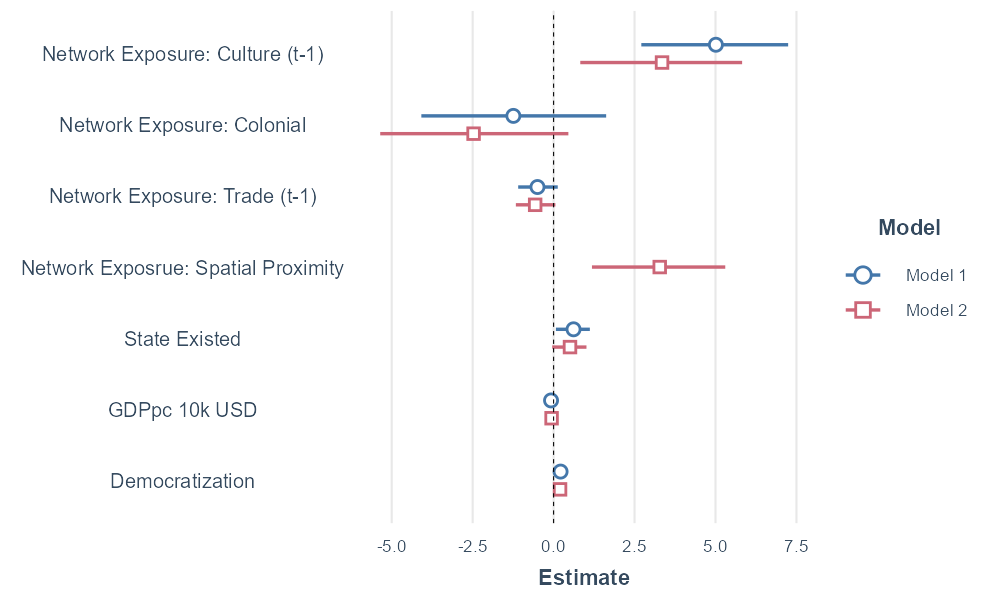
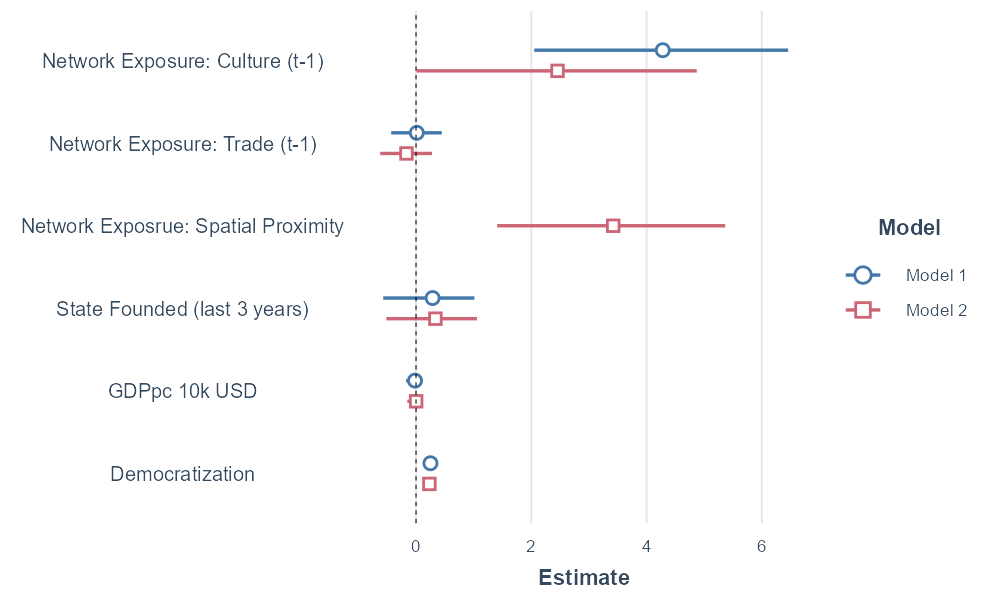
finalized models for both outcomes

diff --git a/results/Tbl1_OR.htm b/results/Tbl1_OR.htm
@@ -4,44 +4,44 @@
 <tr><td></td><td colspan="2" style="border-bottom: 1px solid black"></td></tr>
 <tr><td style="text-align:left"></td><td colspan="2">First Work-Injury Law</td></tr>
 <tr><td style="text-align:left"></td><td>(1)</td><td>(2)</td></tr>
-<tr><td colspan="3" style="border-bottom: 1px solid black"></td></tr><tr><td style="text-align:left">(1880-1904)</td><td>0.004</td><td>0.004</td></tr>
-<tr><td style="text-align:left"></td><td>t = -22.275<sup>***</sup></td><td>t = -22.375<sup>***</sup></td></tr>
+<tr><td colspan="3" style="border-bottom: 1px solid black"></td></tr><tr><td style="text-align:left">(1880-1902)</td><td>0.004</td><td>0.004</td></tr>
+<tr><td style="text-align:left"></td><td>t = -22.656<sup>***</sup></td><td>t = -22.733<sup>***</sup></td></tr>
 <tr><td style="text-align:left"></td><td></td><td></td></tr>
-<tr><td style="text-align:left">(1905-1929)</td><td>0.007</td><td>0.007</td></tr>
-<tr><td style="text-align:left"></td><td>t = -15.657<sup>***</sup></td><td>t = -15.648<sup>***</sup></td></tr>
+<tr><td style="text-align:left">(1903-1928)</td><td>0.006</td><td>0.006</td></tr>
+<tr><td style="text-align:left"></td><td>t = -15.595<sup>***</sup></td><td>t = -15.644<sup>***</sup></td></tr>
 <tr><td style="text-align:left"></td><td></td><td></td></tr>
-<tr><td style="text-align:left">(1930-1954)</td><td>0.003</td><td>0.003</td></tr>
-<tr><td style="text-align:left"></td><td>t = -8.637<sup>***</sup></td><td>t = -8.679<sup>***</sup></td></tr>
+<tr><td style="text-align:left">(1929-1954)</td><td>0.002</td><td>0.002</td></tr>
+<tr><td style="text-align:left"></td><td>t = -9.146<sup>***</sup></td><td>t = -9.207<sup>***</sup></td></tr>
 <tr><td style="text-align:left"></td><td></td><td></td></tr>
-<tr><td style="text-align:left">(1955-1979)</td><td>0.002</td><td>0.002</td></tr>
-<tr><td style="text-align:left"></td><td>t = -7.043<sup>***</sup></td><td>t = -7.142<sup>***</sup></td></tr>
+<tr><td style="text-align:left">(1955-1979)</td><td>0.002</td><td>0.001</td></tr>
+<tr><td style="text-align:left"></td><td>t = -7.746<sup>***</sup></td><td>t = -7.910<sup>***</sup></td></tr>
 <tr><td style="text-align:left"></td><td></td><td></td></tr>
-<tr><td style="text-align:left">(1980-2010)</td><td>0.002</td><td>0.002</td></tr>
-<tr><td style="text-align:left"></td><td>t = -6.157<sup>***</sup></td><td>t = -6.289<sup>***</sup></td></tr>
+<tr><td style="text-align:left">(1980-2010)</td><td>0.002</td><td>0.001</td></tr>
+<tr><td style="text-align:left"></td><td>t = -6.730<sup>***</sup></td><td>t = -6.939<sup>***</sup></td></tr>
 <tr><td style="text-align:left"></td><td></td><td></td></tr>
-<tr><td style="text-align:left">State Existed</td><td>1.851</td><td>1.659</td></tr>
-<tr><td style="text-align:left"></td><td>t = 2.311<sup>**</sup></td><td>t = 1.883<sup>*</sup></td></tr>
+<tr><td style="text-align:left">State Founded (last 3 years)</td><td>1.334</td><td>1.400</td></tr>
+<tr><td style="text-align:left"></td><td>t = 0.721</td><td>t = 0.849</td></tr>
 <tr><td style="text-align:left"></td><td></td><td></td></tr>
-<tr><td style="text-align:left">Network Exposure: Culture (t-1)</td><td>150.217</td><td>28.468</td></tr>
-<tr><td style="text-align:left"></td><td>t = 4.338<sup>***</sup></td><td>t = 2.628<sup>***</sup></td></tr>
+<tr><td style="text-align:left">Network Exposure: Culture (t-1)</td><td>72.328</td><td>11.649</td></tr>
+<tr><td style="text-align:left"></td><td>t = 3.813<sup>***</sup></td><td>t = 1.980<sup>**</sup></td></tr>
 <tr><td style="text-align:left"></td><td></td><td></td></tr>
-<tr><td style="text-align:left">Network Exposure: Colonial</td><td>0.288</td><td>0.084</td></tr>
-<tr><td style="text-align:left"></td><td>t = -0.855</td><td>t = -1.669<sup>*</sup></td></tr>
+<tr><td style="text-align:left">Network Exposure: Colonial</td><td>1.146</td><td>0.360</td></tr>
+<tr><td style="text-align:left"></td><td>t = 0.097</td><td>t = -0.719</td></tr>
 <tr><td style="text-align:left"></td><td></td><td></td></tr>
-<tr><td style="text-align:left">Network Exposure: Trade (t-1)</td><td>0.608</td><td>0.566</td></tr>
-<tr><td style="text-align:left"></td><td>t = -1.604</td><td>t = -1.836<sup>*</sup></td></tr>
+<tr><td style="text-align:left">Network Exposure: Trade (t-1)</td><td>1.014</td><td>0.847</td></tr>
+<tr><td style="text-align:left"></td><td>t = 0.063</td><td>t = -0.723</td></tr>
 <tr><td style="text-align:left"></td><td></td><td></td></tr>
-<tr><td style="text-align:left">Network Exposrue: Spatial Proximity</td><td></td><td>26.520</td></tr>
-<tr><td style="text-align:left"></td><td></td><td>t = 3.121<sup>***</sup></td></tr>
+<tr><td style="text-align:left">Network Exposrue: Spatial Proximity</td><td></td><td>30.610</td></tr>
+<tr><td style="text-align:left"></td><td></td><td>t = 3.390<sup>***</sup></td></tr>
 <tr><td style="text-align:left"></td><td></td><td></td></tr>
-<tr><td style="text-align:left">GDPpc 10k USD</td><td>0.924</td><td>0.939</td></tr>
-<tr><td style="text-align:left"></td><td>t = -1.461</td><td>t = -1.141</td></tr>
+<tr><td style="text-align:left">GDPpc 10k USD</td><td>0.983</td><td>1.002</td></tr>
+<tr><td style="text-align:left"></td><td>t = -0.284</td><td>t = 0.039</td></tr>
 <tr><td style="text-align:left"></td><td></td><td></td></tr>
-<tr><td style="text-align:left">Democratization</td><td>1.240</td><td>1.220</td></tr>
-<tr><td style="text-align:left"></td><td>t = 3.877<sup>***</sup></td><td>t = 3.544<sup>***</sup></td></tr>
+<tr><td style="text-align:left">Democratization</td><td>1.284</td><td>1.261</td></tr>
+<tr><td style="text-align:left"></td><td>t = 4.595<sup>***</sup></td><td>t = 4.216<sup>***</sup></td></tr>
 <tr><td style="text-align:left"></td><td></td><td></td></tr>
-<tr><td colspan="3" style="border-bottom: 1px solid black"></td></tr><tr><td style="text-align:left">Observations</td><td>7,828</td><td>7,828</td></tr>
-<tr><td style="text-align:left">Log Likelihood</td><td>-648.509</td><td>-643.885</td></tr>
-<tr><td style="text-align:left">Akaike Inf. Crit.</td><td>1,319.018</td><td>1,311.770</td></tr>
+<tr><td colspan="3" style="border-bottom: 1px solid black"></td></tr><tr><td style="text-align:left">Observations</td><td>7,870</td><td>7,870</td></tr>
+<tr><td style="text-align:left">Log Likelihood</td><td>-656.905</td><td>-651.492</td></tr>
+<tr><td style="text-align:left">Akaike Inf. Crit.</td><td>1,335.810</td><td>1,326.984</td></tr>
 <tr><td colspan="3" style="border-bottom: 1px solid black"></td></tr><tr><td style="text-align:left"><em>Note:</em></td><td colspan="2" style="text-align:right"><sup>*</sup>p<0.1; <sup>**</sup>p<0.05; <sup>***</sup>p<0.01</td></tr>
 </table>

diff --git a/results/Tbl1.htm b/results/Tbl1.htm
@@ -4,44 +4,44 @@
 <tr><td></td><td colspan="2" style="border-bottom: 1px solid black"></td></tr>
 <tr><td style="text-align:left"></td><td colspan="2">First Work-Injury Law</td></tr>
 <tr><td style="text-align:left"></td><td>(1)</td><td>(2)</td></tr>
-<tr><td colspan="3" style="border-bottom: 1px solid black"></td></tr><tr><td style="text-align:left">(1880-1904)</td><td>-5.626<sup>***</sup></td><td>-5.631<sup>***</sup></td></tr>
-<tr><td style="text-align:left"></td><td>(0.253)</td><td>(0.252)</td></tr>
+<tr><td colspan="3" style="border-bottom: 1px solid black"></td></tr><tr><td style="text-align:left">(1880-1902)</td><td>-5.573<sup>***</sup></td><td>-5.601<sup>***</sup></td></tr>
+<tr><td style="text-align:left"></td><td>(0.246)</td><td>(0.246)</td></tr>
 <tr><td style="text-align:left"></td><td></td><td></td></tr>
-<tr><td style="text-align:left">(1905-1929)</td><td>-5.025<sup>***</sup></td><td>-5.028<sup>***</sup></td></tr>
-<tr><td style="text-align:left"></td><td>(0.321)</td><td>(0.321)</td></tr>
+<tr><td style="text-align:left">(1903-1928)</td><td>-5.115<sup>***</sup></td><td>-5.121<sup>***</sup></td></tr>
+<tr><td style="text-align:left"></td><td>(0.328)</td><td>(0.327)</td></tr>
 <tr><td style="text-align:left"></td><td></td><td></td></tr>
-<tr><td style="text-align:left">(1930-1954)</td><td>-5.733<sup>***</sup></td><td>-5.802<sup>***</sup></td></tr>
-<tr><td style="text-align:left"></td><td>(0.664)</td><td>(0.669)</td></tr>
+<tr><td style="text-align:left">(1929-1954)</td><td>-6.041<sup>***</sup></td><td>-6.140<sup>***</sup></td></tr>
+<tr><td style="text-align:left"></td><td>(0.660)</td><td>(0.667)</td></tr>
 <tr><td style="text-align:left"></td><td></td><td></td></tr>
-<tr><td style="text-align:left">(1955-1979)</td><td>-6.052<sup>***</sup></td><td>-6.161<sup>***</sup></td></tr>
-<tr><td style="text-align:left"></td><td>(0.859)</td><td>(0.863)</td></tr>
+<tr><td style="text-align:left">(1955-1979)</td><td>-6.478<sup>***</sup></td><td>-6.652<sup>***</sup></td></tr>
+<tr><td style="text-align:left"></td><td>(0.836)</td><td>(0.841)</td></tr>
 <tr><td style="text-align:left"></td><td></td><td></td></tr>
-<tr><td style="text-align:left">(1980-2010)</td><td>-6.103<sup>***</sup></td><td>-6.263<sup>***</sup></td></tr>
-<tr><td style="text-align:left"></td><td>(0.991)</td><td>(0.996)</td></tr>
+<tr><td style="text-align:left">(1980-2010)</td><td>-6.473<sup>***</sup></td><td>-6.715<sup>***</sup></td></tr>
+<tr><td style="text-align:left"></td><td>(0.962)</td><td>(0.968)</td></tr>
 <tr><td style="text-align:left"></td><td></td><td></td></tr>
-<tr><td style="text-align:left">State Existed</td><td>0.615<sup>**</sup></td><td>0.506<sup>*</sup></td></tr>
-<tr><td style="text-align:left"></td><td>(0.266)</td><td>(0.269)</td></tr>
+<tr><td style="text-align:left">State Founded (last 3 years)</td><td>0.288</td><td>0.336</td></tr>
+<tr><td style="text-align:left"></td><td>(0.399)</td><td>(0.397)</td></tr>
 <tr><td style="text-align:left"></td><td></td><td></td></tr>
-<tr><td style="text-align:left">Network Exposure: Culture (t-1)</td><td>5.012<sup>***</sup></td><td>3.349<sup>***</sup></td></tr>
-<tr><td style="text-align:left"></td><td>(1.155)</td><td>(1.274)</td></tr>
+<tr><td style="text-align:left">Network Exposure: Culture (t-1)</td><td>4.281<sup>***</sup></td><td>2.455<sup>**</sup></td></tr>
+<tr><td style="text-align:left"></td><td>(1.123)</td><td>(1.240)</td></tr>
 <tr><td style="text-align:left"></td><td></td><td></td></tr>
-<tr><td style="text-align:left">Network Exposure: Colonial</td><td>-1.243</td><td>-2.472<sup>*</sup></td></tr>
-<tr><td style="text-align:left"></td><td>(1.454)</td><td>(1.481)</td></tr>
+<tr><td style="text-align:left">Network Exposure: Colonial</td><td>0.136</td><td>-1.022</td></tr>
+<tr><td style="text-align:left"></td><td>(1.406)</td><td>(1.422)</td></tr>
 <tr><td style="text-align:left"></td><td></td><td></td></tr>
-<tr><td style="text-align:left">Network Exposure: Trade (t-1)</td><td>-0.498</td><td>-0.570<sup>*</sup></td></tr>
-<tr><td style="text-align:left"></td><td>(0.310)</td><td>(0.310)</td></tr>
+<tr><td style="text-align:left">Network Exposure: Trade (t-1)</td><td>0.014</td><td>-0.166</td></tr>
+<tr><td style="text-align:left"></td><td>(0.223)</td><td>(0.229)</td></tr>
 <tr><td style="text-align:left"></td><td></td><td></td></tr>
-<tr><td style="text-align:left">Network Exposrue: Spatial Proximity</td><td></td><td>3.278<sup>***</sup></td></tr>
-<tr><td style="text-align:left"></td><td></td><td>(1.050)</td></tr>
+<tr><td style="text-align:left">Network Exposrue: Spatial Proximity</td><td></td><td>3.421<sup>***</sup></td></tr>
+<tr><td style="text-align:left"></td><td></td><td>(1.009)</td></tr>
 <tr><td style="text-align:left"></td><td></td><td></td></tr>
-<tr><td style="text-align:left">GDPpc 10k USD</td><td>-0.079</td><td>-0.062</td></tr>
+<tr><td style="text-align:left">GDPpc 10k USD</td><td>-0.017</td><td>0.002</td></tr>
+<tr><td style="text-align:left"></td><td>(0.061)</td><td>(0.061)</td></tr>
+<tr><td style="text-align:left"></td><td></td><td></td></tr>
+<tr><td style="text-align:left">Democratization</td><td>0.250<sup>***</sup></td><td>0.232<sup>***</sup></td></tr>
 <tr><td style="text-align:left"></td><td>(0.054)</td><td>(0.055)</td></tr>
 <tr><td style="text-align:left"></td><td></td><td></td></tr>
-<tr><td style="text-align:left">Democratization</td><td>0.215<sup>***</sup></td><td>0.199<sup>***</sup></td></tr>
-<tr><td style="text-align:left"></td><td>(0.055)</td><td>(0.056)</td></tr>
-<tr><td style="text-align:left"></td><td></td><td></td></tr>
-<tr><td colspan="3" style="border-bottom: 1px solid black"></td></tr><tr><td style="text-align:left">Observations</td><td>7,828</td><td>7,828</td></tr>
-<tr><td style="text-align:left">Log Likelihood</td><td>-648.509</td><td>-643.885</td></tr>
-<tr><td style="text-align:left">Akaike Inf. Crit.</td><td>1,319.018</td><td>1,311.770</td></tr>
+<tr><td colspan="3" style="border-bottom: 1px solid black"></td></tr><tr><td style="text-align:left">Observations</td><td>7,870</td><td>7,870</td></tr>
+<tr><td style="text-align:left">Log Likelihood</td><td>-656.905</td><td>-651.492</td></tr>
+<tr><td style="text-align:left">Akaike Inf. Crit.</td><td>1,335.810</td><td>1,326.984</td></tr>
 <tr><td colspan="3" style="border-bottom: 1px solid black"></td></tr><tr><td style="text-align:left"><em>Note:</em></td><td colspan="2" style="text-align:right"><sup>*</sup>p<0.1; <sup>**</sup>p<0.05; <sup>***</sup>p<0.01</td></tr>
 </table>

diff --git a/results/Tbl2_OR.htm b/results/Tbl2_OR.htm
@@ -1,0 +1,47 @@
+
+<table style="text-align:center"><caption><strong>Discrete Time Hazard/Diffusion Models of /nWork-Injury Law, 1880-2010 in 173 countries</strong></caption>
+<tr><td colspan="3" style="border-bottom: 1px solid black"></td></tr><tr><td style="text-align:left"></td><td colspan="2"><em>Dependent variable:</em></td></tr>
+<tr><td></td><td colspan="2" style="border-bottom: 1px solid black"></td></tr>
+<tr><td style="text-align:left"></td><td colspan="2">First Work-Injury Social Insurance Law</td></tr>
+<tr><td style="text-align:left"></td><td>(1)</td><td>(2)</td></tr>
+<tr><td colspan="3" style="border-bottom: 1px solid black"></td></tr><tr><td style="text-align:left">(1880-1902)</td><td>0.002</td><td>0.002</td></tr>
+<tr><td style="text-align:left"></td><td>t = -17.411<sup>***</sup></td><td>t = -17.485<sup>***</sup></td></tr>
+<tr><td style="text-align:left"></td><td></td><td></td></tr>
+<tr><td style="text-align:left">(1903-1928)</td><td>0.004</td><td>0.003</td></tr>
+<tr><td style="text-align:left"></td><td>t = -19.886<sup>***</sup></td><td>t = -19.873<sup>***</sup></td></tr>
+<tr><td style="text-align:left"></td><td></td><td></td></tr>
+<tr><td style="text-align:left">(1929-1954)</td><td>0.004</td><td>0.004</td></tr>
+<tr><td style="text-align:left"></td><td>t = -11.001<sup>***</sup></td><td>t = -11.128<sup>***</sup></td></tr>
+<tr><td style="text-align:left"></td><td></td><td></td></tr>
+<tr><td style="text-align:left">(1955-1979)</td><td>0.003</td><td>0.003</td></tr>
+<tr><td style="text-align:left"></td><td>t = -6.764<sup>***</sup></td><td>t = -6.862<sup>***</sup></td></tr>
+<tr><td style="text-align:left"></td><td></td><td></td></tr>
+<tr><td style="text-align:left">(1980-2010)</td><td>0.003</td><td>0.002</td></tr>
+<tr><td style="text-align:left"></td><td>t = -5.266<sup>***</sup></td><td>t = -5.426<sup>***</sup></td></tr>
+<tr><td style="text-align:left"></td><td></td><td></td></tr>
+<tr><td style="text-align:left">State Founded (last 3 years)</td><td>2.393</td><td>2.597</td></tr>
+<tr><td style="text-align:left"></td><td>t = 2.853<sup>***</sup></td><td>t = 3.107<sup>***</sup></td></tr>
+<tr><td style="text-align:left"></td><td></td><td></td></tr>
+<tr><td style="text-align:left">Network Exposure: Culture (t-1)</td><td>21.402</td><td>2.513</td></tr>
+<tr><td style="text-align:left"></td><td>t = 2.046<sup>**</sup></td><td>t = 0.575</td></tr>
+<tr><td style="text-align:left"></td><td></td><td></td></tr>
+<tr><td style="text-align:left">Network Exposure: Colonial</td><td>0.105</td><td>0.050</td></tr>
+<tr><td style="text-align:left"></td><td>t = -1.105</td><td>t = -1.493</td></tr>
+<tr><td style="text-align:left"></td><td></td><td></td></tr>
+<tr><td style="text-align:left">Network Exposure: Trade (t-1)</td><td>7.286</td><td>5.520</td></tr>
+<tr><td style="text-align:left"></td><td>t = 5.301<sup>***</sup></td><td>t = 4.426<sup>***</sup></td></tr>
+<tr><td style="text-align:left"></td><td></td><td></td></tr>
+<tr><td style="text-align:left">Network Exposrue: Spatial Proximity</td><td></td><td>33.116</td></tr>
+<tr><td style="text-align:left"></td><td></td><td>t = 3.135<sup>***</sup></td></tr>
+<tr><td style="text-align:left"></td><td></td><td></td></tr>
+<tr><td style="text-align:left">GDPpc 10k USD</td><td>0.913</td><td>0.893</td></tr>
+<tr><td style="text-align:left"></td><td>t = -0.869</td><td>t = -1.036</td></tr>
+<tr><td style="text-align:left"></td><td></td><td></td></tr>
+<tr><td style="text-align:left">Democratization</td><td>1.145</td><td>1.149</td></tr>
+<tr><td style="text-align:left"></td><td>t = 3.417<sup>***</sup></td><td>t = 3.504<sup>***</sup></td></tr>
+<tr><td style="text-align:left"></td><td></td><td></td></tr>
+<tr><td colspan="3" style="border-bottom: 1px solid black"></td></tr><tr><td style="text-align:left">Observations</td><td>12,267</td><td>12,267</td></tr>
+<tr><td style="text-align:left">Log Likelihood</td><td>-648.314</td><td>-643.586</td></tr>
+<tr><td style="text-align:left">Akaike Inf. Crit.</td><td>1,318.627</td><td>1,311.172</td></tr>
+<tr><td colspan="3" style="border-bottom: 1px solid black"></td></tr><tr><td style="text-align:left"><em>Note:</em></td><td colspan="2" style="text-align:right"><sup>*</sup>p<0.1; <sup>**</sup>p<0.05; <sup>***</sup>p<0.01</td></tr>
+</table>

diff --git a/results/Tbl2.htm b/results/Tbl2.htm
@@ -1,0 +1,47 @@
+
+<table style="text-align:center"><caption><strong>Discrete Time Hazard/Diffusion Models of /nWork-Injury Law, 1880-2010 in 173 countries</strong></caption>
+<tr><td colspan="3" style="border-bottom: 1px solid black"></td></tr><tr><td style="text-align:left"></td><td colspan="2"><em>Dependent variable:</em></td></tr>
+<tr><td></td><td colspan="2" style="border-bottom: 1px solid black"></td></tr>
+<tr><td style="text-align:left"></td><td colspan="2">First Work-Injury Social Insurance Law</td></tr>
+<tr><td style="text-align:left"></td><td>(1)</td><td>(2)</td></tr>
+<tr><td colspan="3" style="border-bottom: 1px solid black"></td></tr><tr><td style="text-align:left">(1880-1902)</td><td>-6.218<sup>***</sup></td><td>-6.250<sup>***</sup></td></tr>
+<tr><td style="text-align:left"></td><td>(0.357)</td><td>(0.357)</td></tr>
+<tr><td style="text-align:left"></td><td></td><td></td></tr>
+<tr><td style="text-align:left">(1903-1928)</td><td>-5.587<sup>***</sup></td><td>-5.692<sup>***</sup></td></tr>
+<tr><td style="text-align:left"></td><td>(0.281)</td><td>(0.286)</td></tr>
+<tr><td style="text-align:left"></td><td></td><td></td></tr>
+<tr><td style="text-align:left">(1929-1954)</td><td>-5.526<sup>***</sup></td><td>-5.573<sup>***</sup></td></tr>
+<tr><td style="text-align:left"></td><td>(0.502)</td><td>(0.501)</td></tr>
+<tr><td style="text-align:left"></td><td></td><td></td></tr>
+<tr><td style="text-align:left">(1955-1979)</td><td>-5.733<sup>***</sup></td><td>-5.814<sup>***</sup></td></tr>
+<tr><td style="text-align:left"></td><td>(0.848)</td><td>(0.847)</td></tr>
+<tr><td style="text-align:left"></td><td></td><td></td></tr>
+<tr><td style="text-align:left">(1980-2010)</td><td>-5.932<sup>***</sup></td><td>-6.136<sup>***</sup></td></tr>
+<tr><td style="text-align:left"></td><td>(1.126)</td><td>(1.131)</td></tr>
+<tr><td style="text-align:left"></td><td></td><td></td></tr>
+<tr><td style="text-align:left">State Founded (last 3 years)</td><td>0.873<sup>***</sup></td><td>0.954<sup>***</sup></td></tr>
+<tr><td style="text-align:left"></td><td>(0.306)</td><td>(0.307)</td></tr>
+<tr><td style="text-align:left"></td><td></td><td></td></tr>
+<tr><td style="text-align:left">Network Exposure: Culture (t-1)</td><td>3.063<sup>**</sup></td><td>0.921</td></tr>
+<tr><td style="text-align:left"></td><td>(1.497)</td><td>(1.602)</td></tr>
+<tr><td style="text-align:left"></td><td></td><td></td></tr>
+<tr><td style="text-align:left">Network Exposure: Colonial</td><td>-2.251</td><td>-3.001</td></tr>
+<tr><td style="text-align:left"></td><td>(2.037)</td><td>(2.010)</td></tr>
+<tr><td style="text-align:left"></td><td></td><td></td></tr>
+<tr><td style="text-align:left">Network Exposure: Trade (t-1)</td><td>1.986<sup>***</sup></td><td>1.708<sup>***</sup></td></tr>
+<tr><td style="text-align:left"></td><td>(0.375)</td><td>(0.386)</td></tr>
+<tr><td style="text-align:left"></td><td></td><td></td></tr>
+<tr><td style="text-align:left">Network Exposrue: Spatial Proximity</td><td></td><td>3.500<sup>***</sup></td></tr>
+<tr><td style="text-align:left"></td><td></td><td>(1.116)</td></tr>
+<tr><td style="text-align:left"></td><td></td><td></td></tr>
+<tr><td style="text-align:left">GDPpc 10k USD</td><td>-0.091</td><td>-0.113</td></tr>
+<tr><td style="text-align:left"></td><td>(0.105)</td><td>(0.109)</td></tr>
+<tr><td style="text-align:left"></td><td></td><td></td></tr>
+<tr><td style="text-align:left">Democratization</td><td>0.135<sup>***</sup></td><td>0.139<sup>***</sup></td></tr>
+<tr><td style="text-align:left"></td><td>(0.040)</td><td>(0.040)</td></tr>
+<tr><td style="text-align:left"></td><td></td><td></td></tr>
+<tr><td colspan="3" style="border-bottom: 1px solid black"></td></tr><tr><td style="text-align:left">Observations</td><td>12,267</td><td>12,267</td></tr>
+<tr><td style="text-align:left">Log Likelihood</td><td>-648.314</td><td>-643.586</td></tr>
+<tr><td style="text-align:left">Akaike Inf. Crit.</td><td>1,318.627</td><td>1,311.172</td></tr>
+<tr><td colspan="3" style="border-bottom: 1px solid black"></td></tr><tr><td style="text-align:left"><em>Note:</em></td><td colspan="2" style="text-align:right"><sup>*</sup>p<0.1; <sup>**</sup>p<0.05; <sup>***</sup>p<0.01</td></tr>
+</table>
